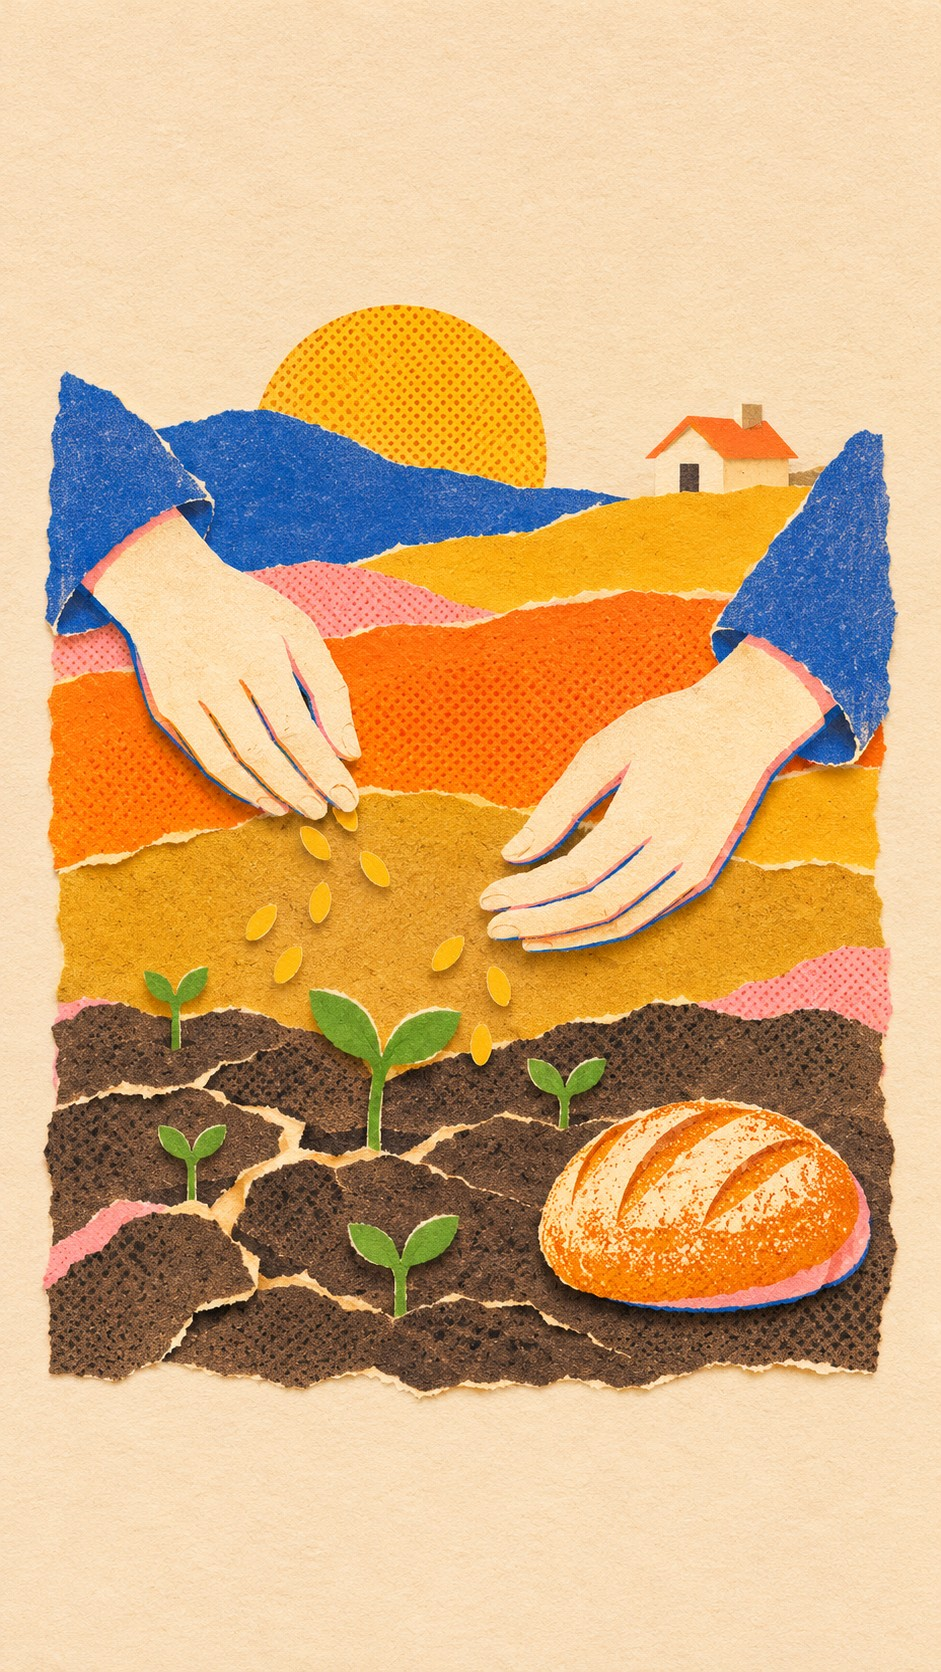
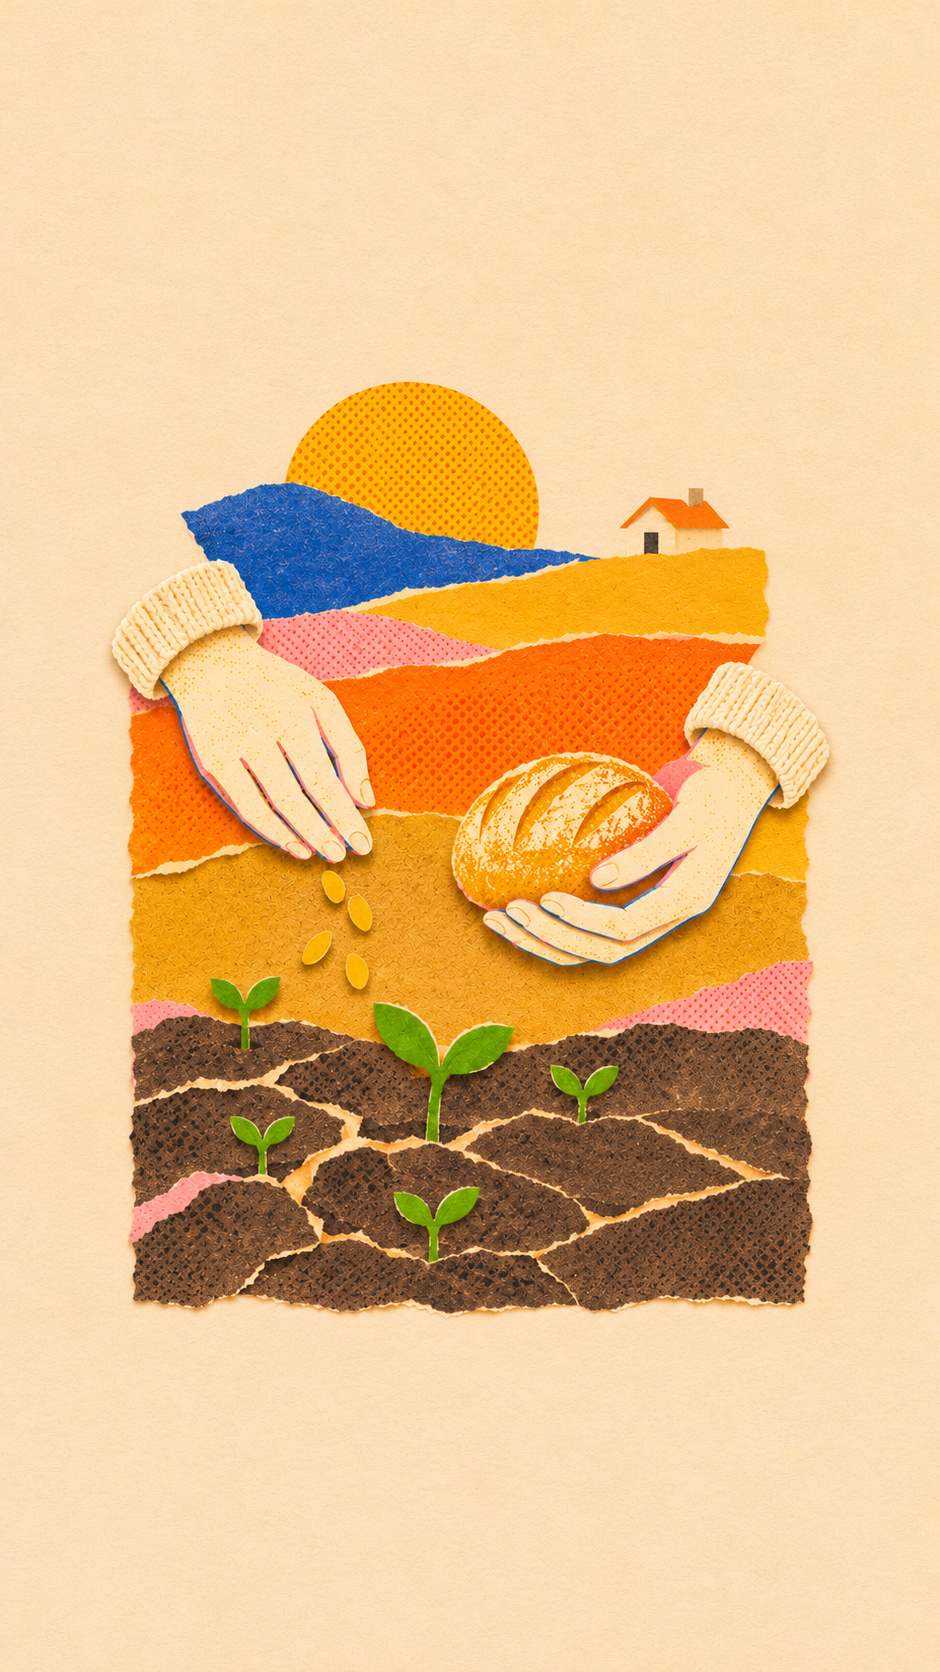
art: stage 4 — batch 09 assets and visual QA

diff --git a/toldot-video/art/asset_tools.py b/toldot-video/art/asset_tools.py
@@ -24,8 +24,10 @@ def main():
             with Image.open(path) as source:
                 image = source.convert('RGB')
             original = ART / 'refs' / (path.stem + '_generated.png')
-            if original.exists():
-                raise SystemExit(f'Refusing to overwrite preserved raw image: {original}')
+            attempt = 2
+            while original.exists():
+                original = ART / 'refs' / (path.stem + f'_generated_{attempt}.png')
+                attempt += 1
             image.save(original)
             width, height = image.size
             crop_width = min(width, round(height * 9 / 16))

diff --git a/toldot-video/art/STATUS.md b/toldot-video/art/STATUS.md
@@ -26,3 +26,5 @@ Batch 06: 18 generations this session. Individually reviewed: P22 approved, P23 
 Batch 07: 21 generations this session. Individually reviewed: P25 approved, P26 draft, P27 approved. Contact sheet saved. Production continues; no approval wait; DONE absent.
 
 Batch 08: 21 generations this session. Individually reviewed: P05 approved, P10 approved, P11 approved, P12 approved, P15 approved, P26 weak. Contact sheet saved. Production continues; no approval wait; DONE absent.
+
+Batch 09: 24 generations this session. Individually reviewed: P01 approved, P03 approved, P06 draft. Contact sheet saved. Production continues; no approval wait; DONE absent.
